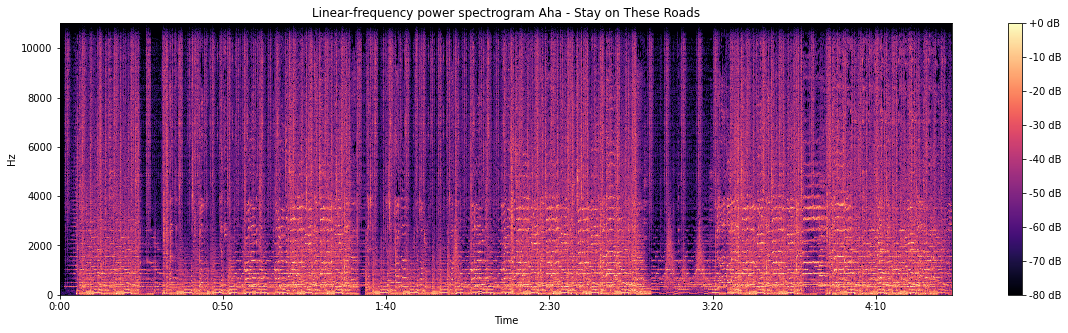
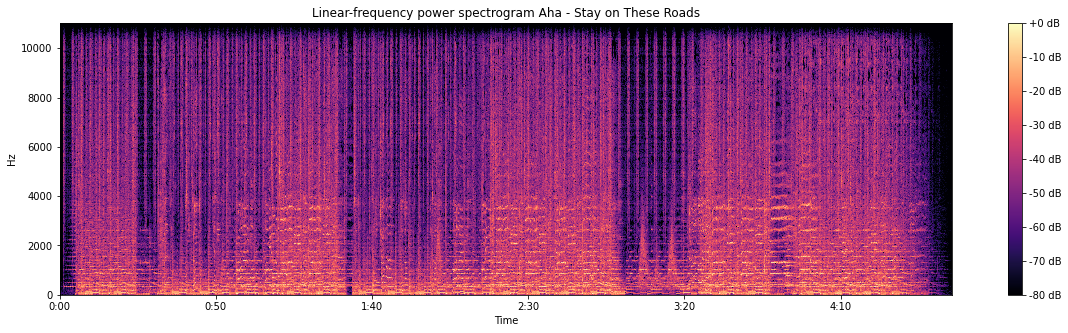
lab8

diff --git a/Capa/Lab8/index.html b/Capa/Lab8/index.html
@@ -30,6 +30,19 @@ th, td {
       <img src="audio1.png"  style="width:650px;">
       <img src="SinalOriginal.png"  style="width:650px;">
 
+	
+	<p>Outra música que foi utilizada é a Stay On These Roads do A-HA:</p>
+	<h3>Espectrograma Original:</h3>
+	<img src="felipe\1.png"  style="width:650px;">
+	<h3>Conversão wav em mp3, 128kbps</h3>
+	<audio controls>
+      <source src="felipe\abba128k.mp3" type="audio/mp3">
+    </audio>
+	Espectrograma do arquivo codificado:
+	<img src="felipe\2.png"  style="width:650px;">
+	
+
+
  <button onclick="goBack()">Voltar</button>
 
 
